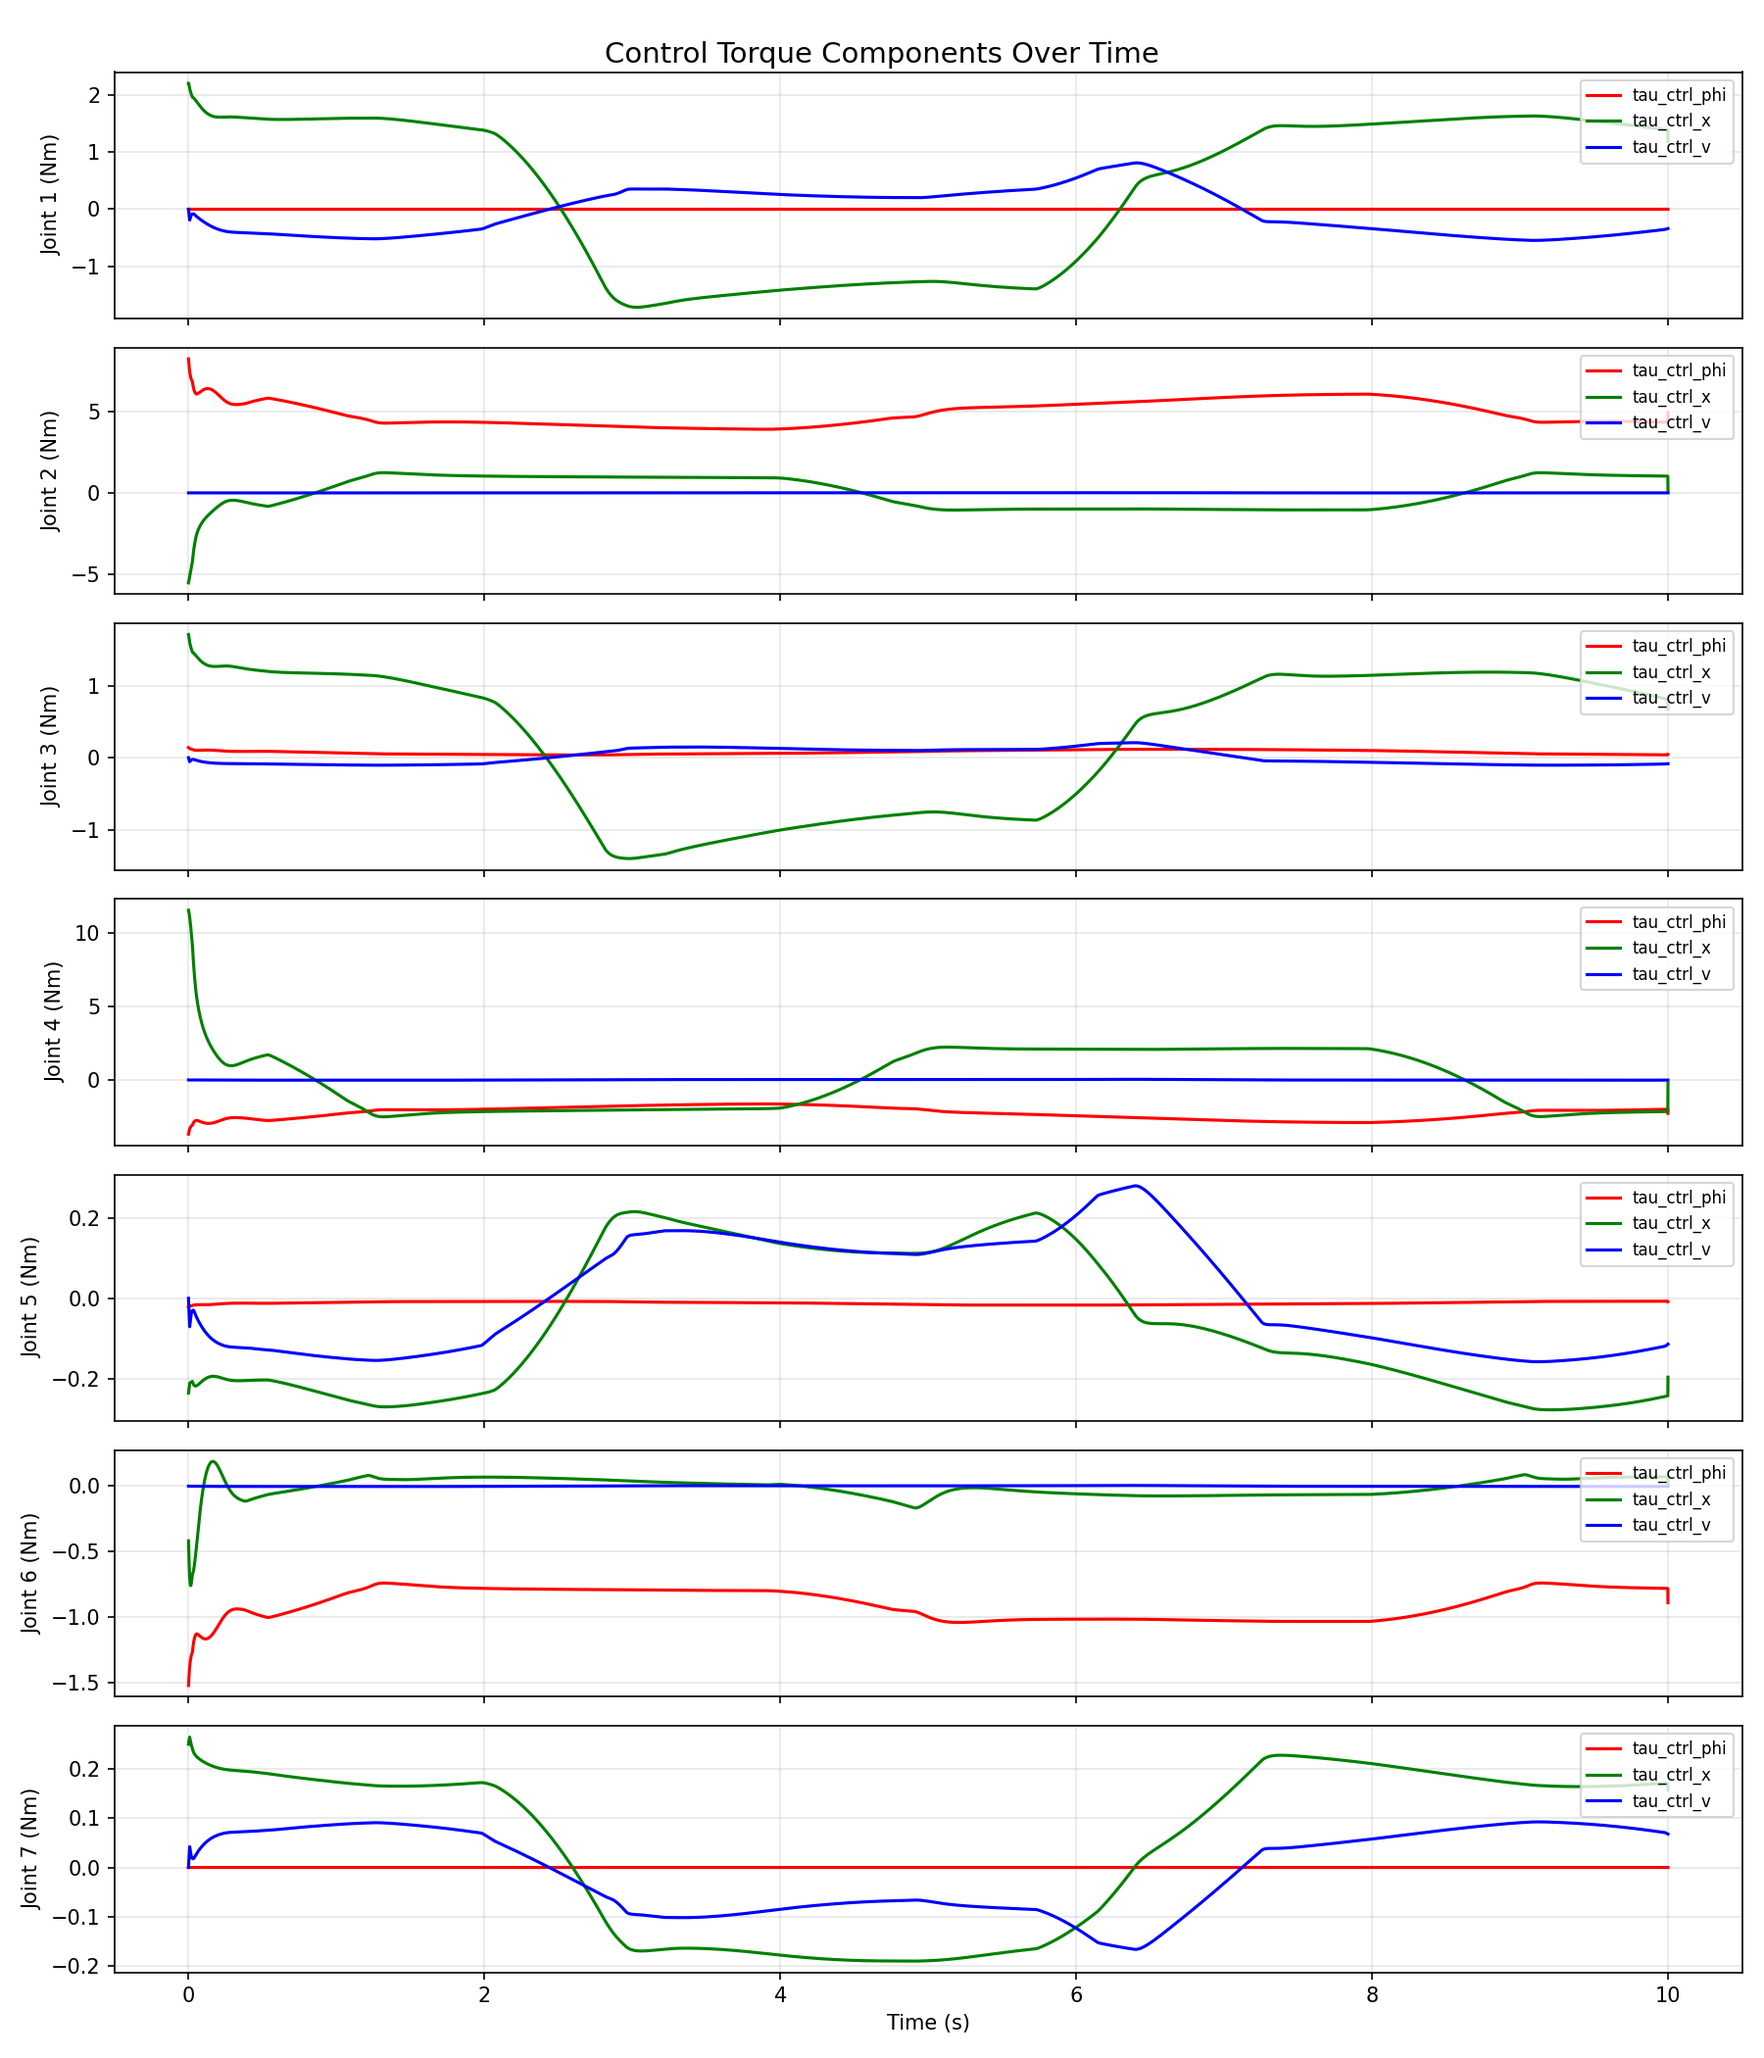
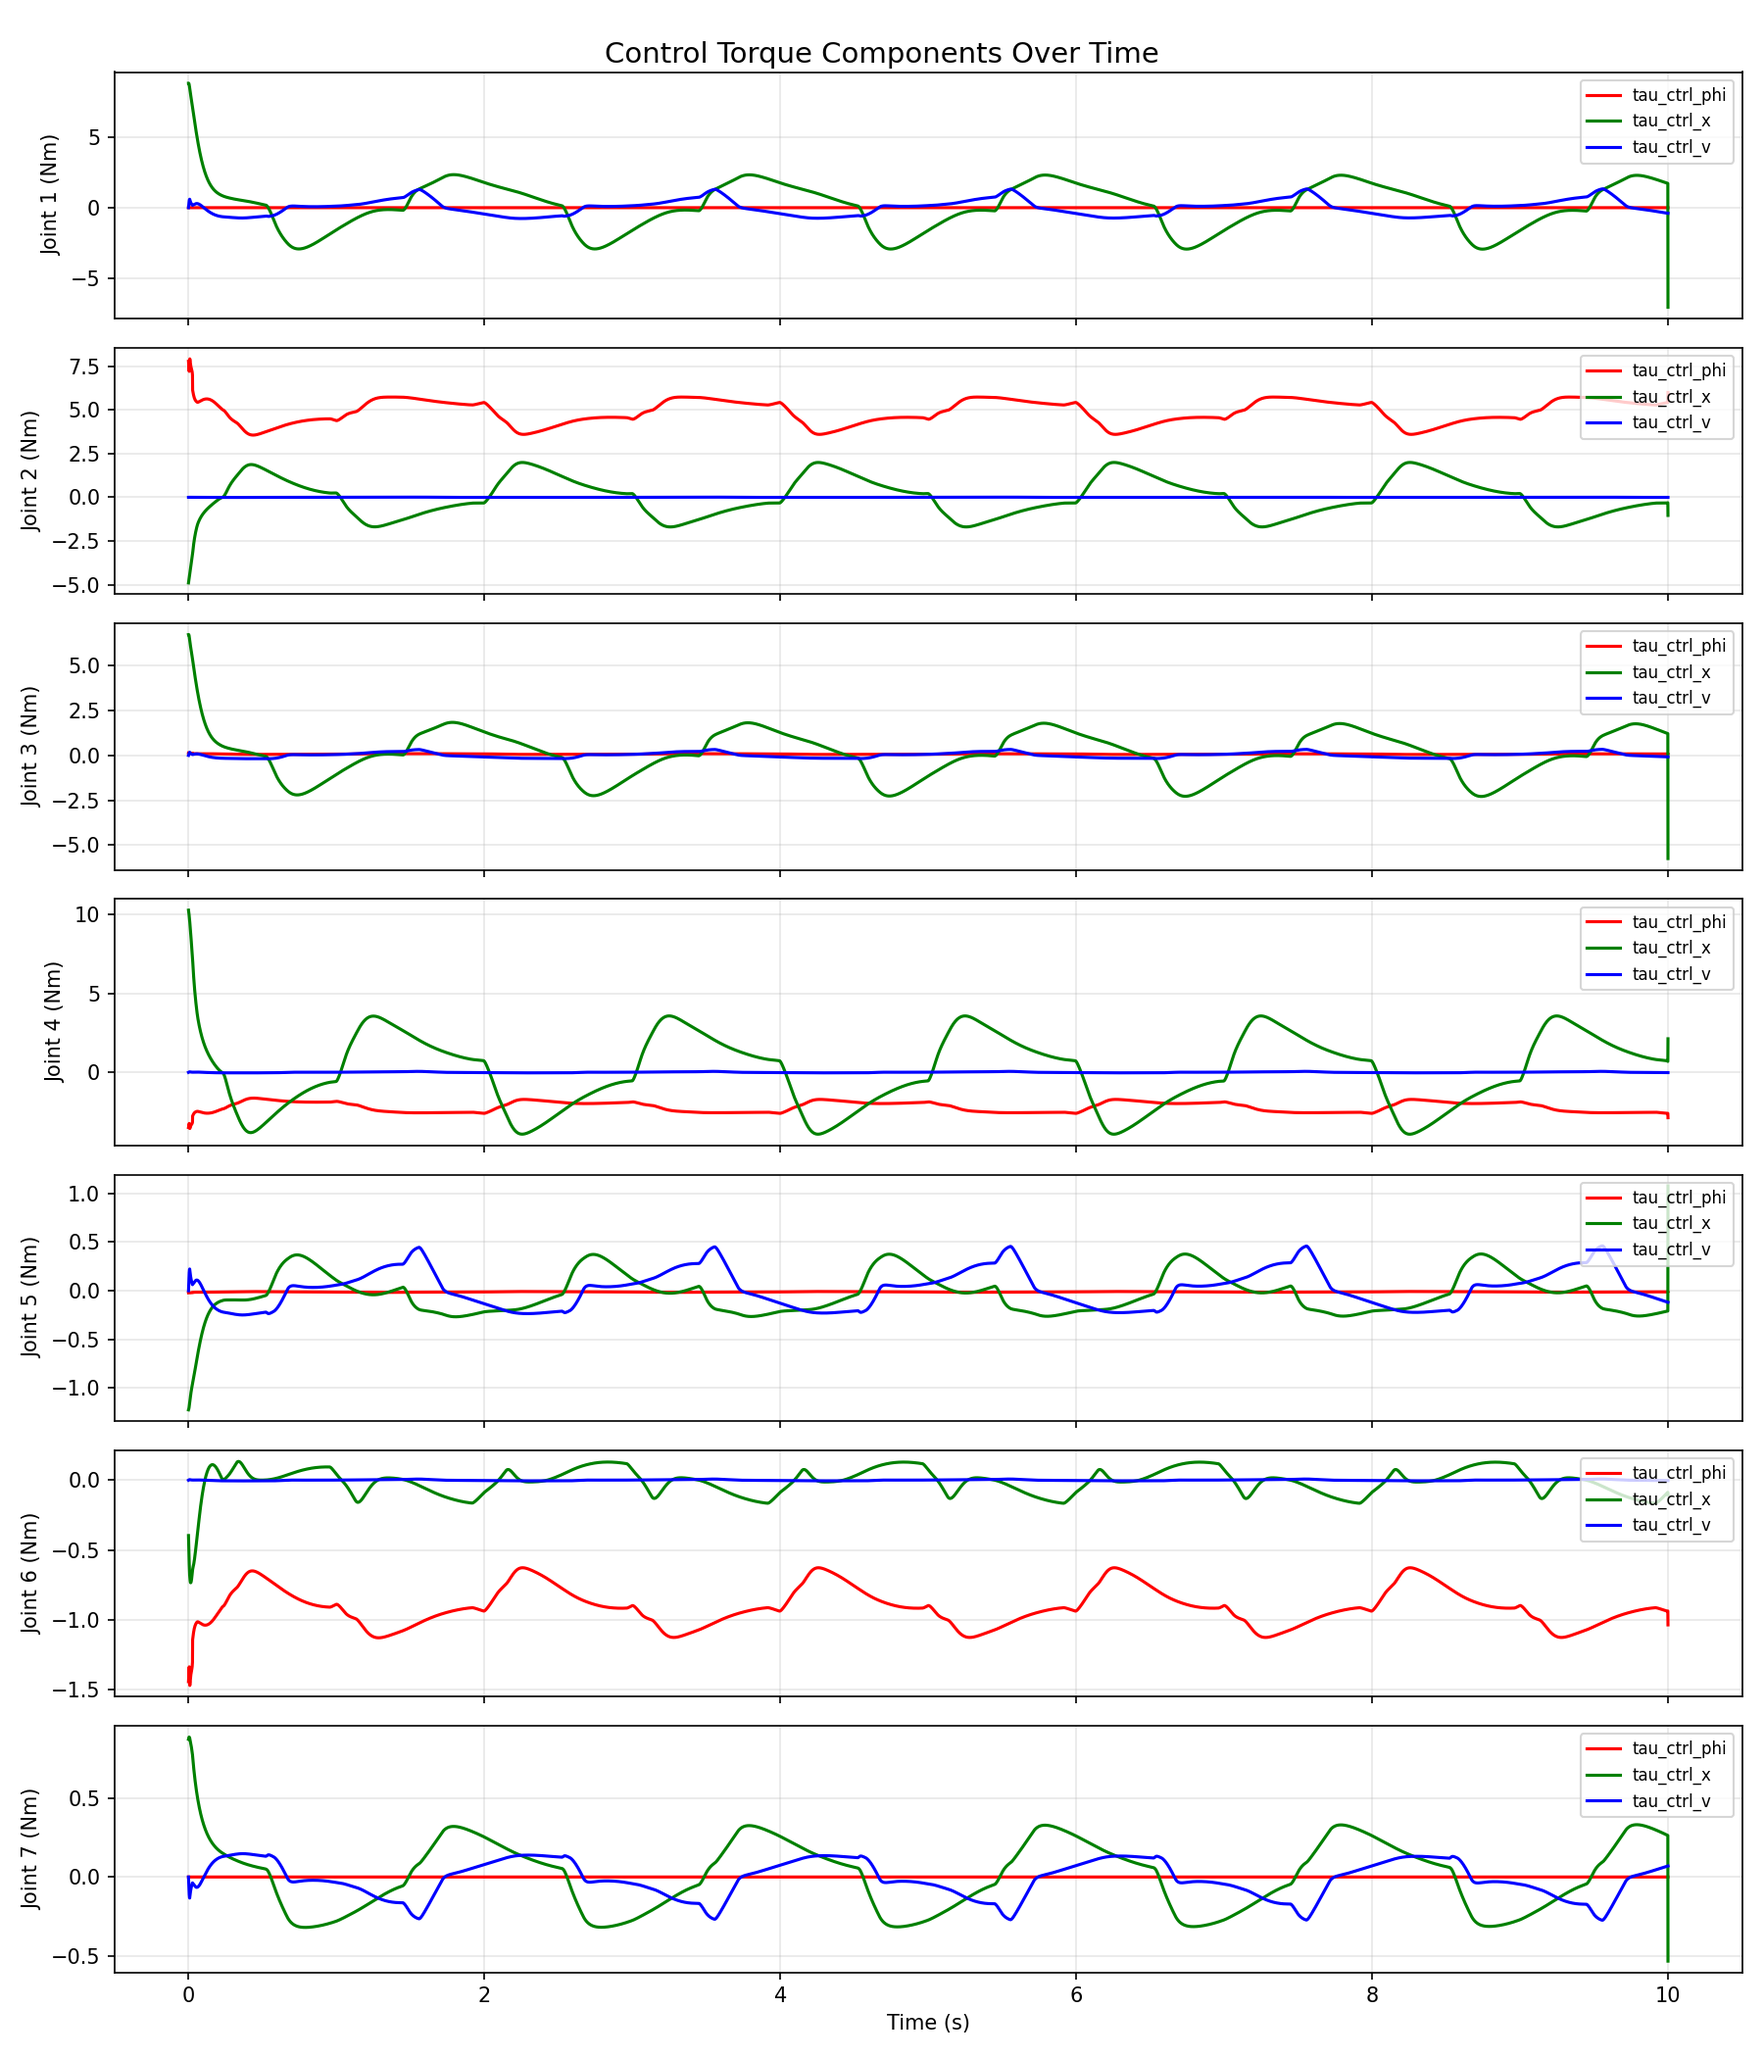
pi rad per s and with fr3.xml

diff --git a/src/controller_config.py b/src/controller_config.py
@@ -25,7 +25,7 @@ class ControllerConfig:
     circle_center: np.ndarray = None
     circle_radius: float = 0.05
     circle_duration: float = 10.0
-    angular_speed: float = np.pi/4
+    angular_speed: float = np.pi
 
     # Contact detection thresholds
     position_tolerance: float = 0.01  # 1cm tolerance for reaching target
